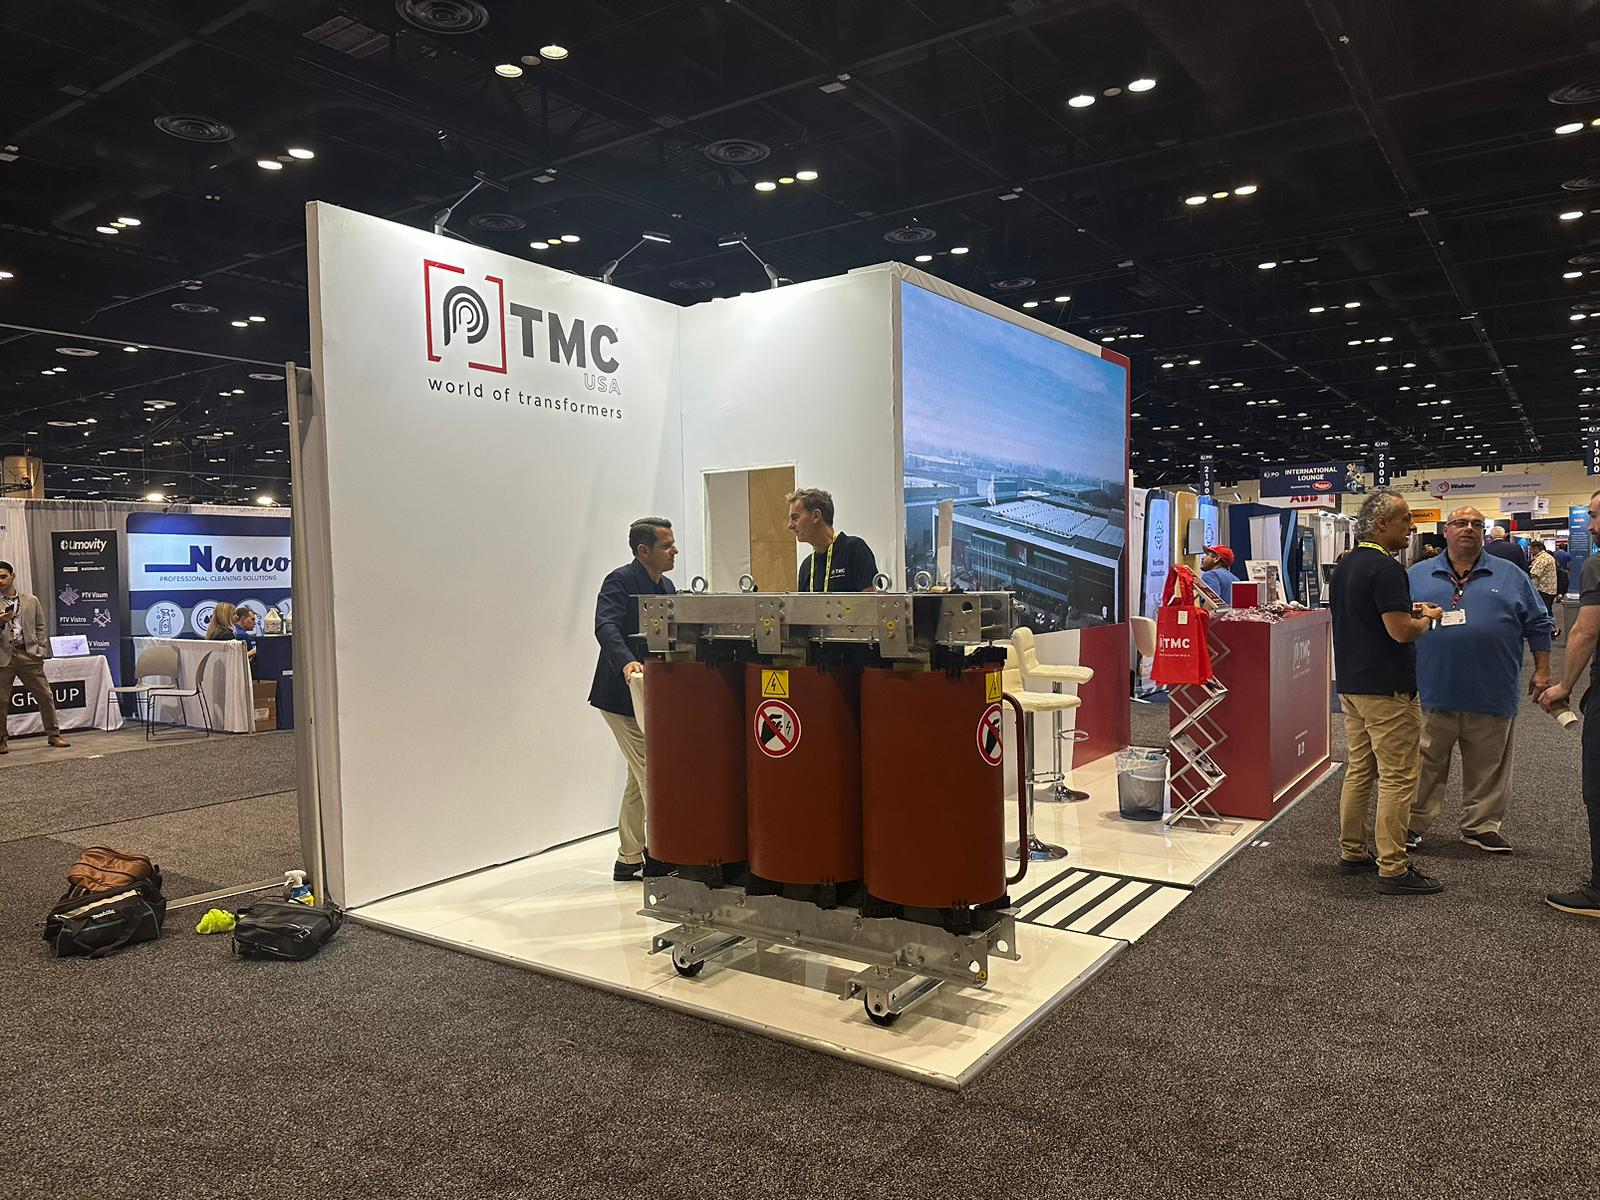
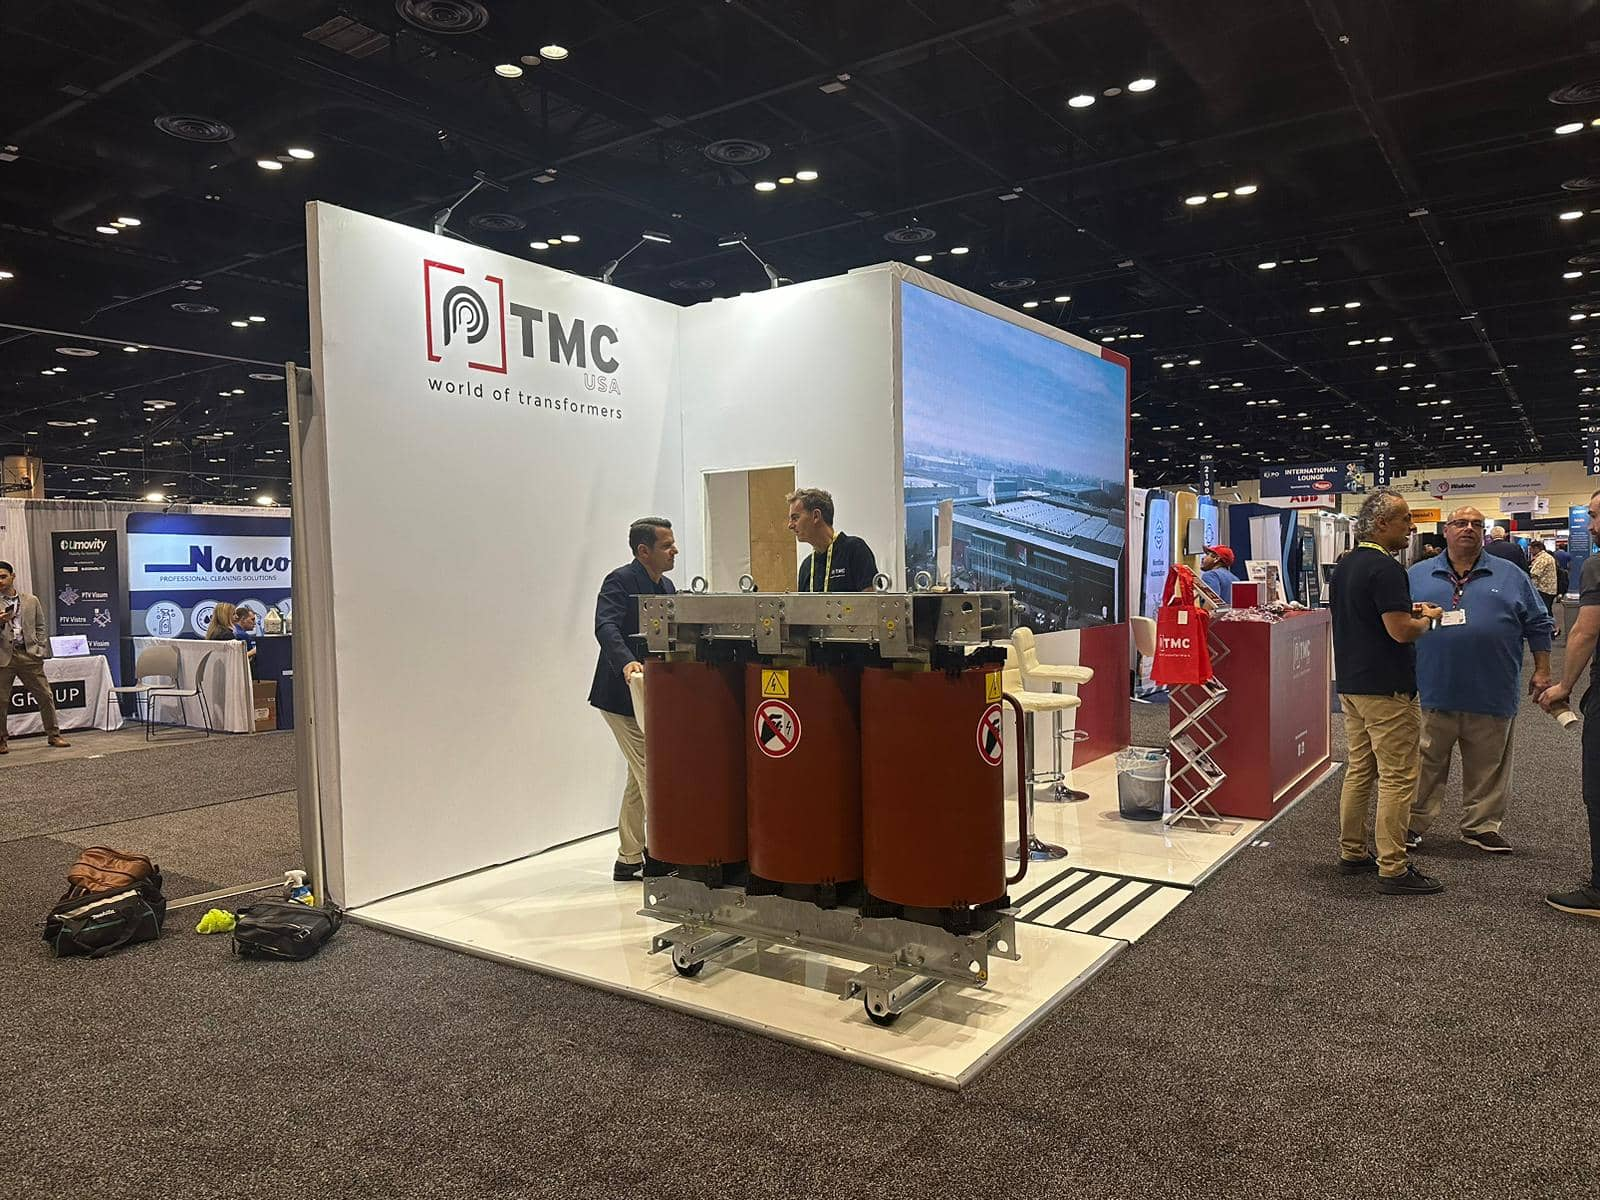
adicionando imagens comprimidas

diff --git a/assets/css/style.css b/assets/css/style.css
@@ -131,6 +131,9 @@ h1, h2, h3, h4, h5, h6 {
 }
 
 #header .logo a {
+  display: flex;
+  align-items: center;
+  gap: 10px;
   color: #fff;
 }
 
